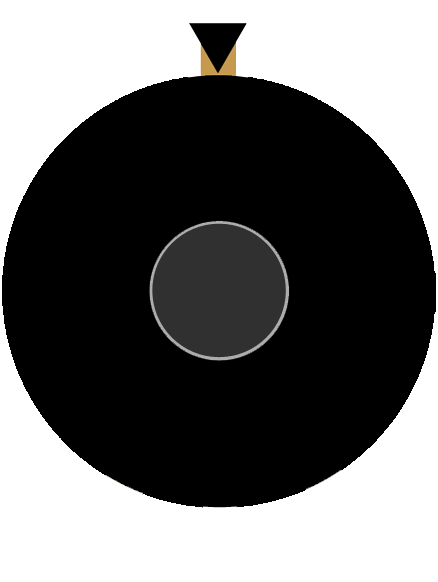
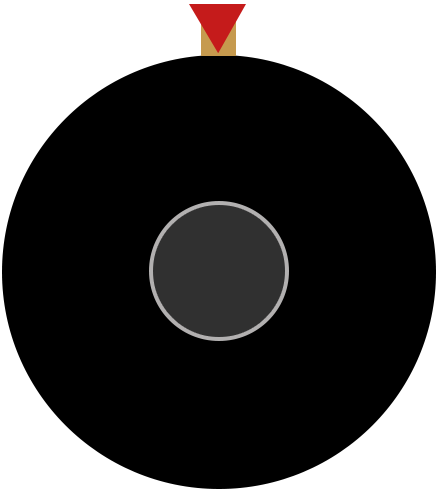
Made the code with a more modular approach. Redid the Background image so it's sharper.

diff --git a/index.html b/index.html
@@ -37,8 +37,8 @@
         <div id="myDIV" style="display:none; width:438;">
             <table cellpadding="0" cellspacing="0" border="0">
                 <tr>
-                    <td width="438" height="500" class="the_wheel"  valign="center">
-                        <canvas id="canvas" width="434" height="434">
+                    <td width="438" height="500" class="the_wheel"  align-items="center">
+                        <canvas id="canvas" style="margin-top:50px; margin-left:2px" width="434" height="434">
                             <p style="color: white" >Sorry, your browser doesn't support canvas. Please try another.</p>
                         </canvas>
                     </td>
@@ -56,7 +56,8 @@
 
             // Vars used by the code in this page to do power controls.
             let wheelSpinning = false;
-            var theWheel
+            var wheelSettings;
+            let theWheel;
 
             ComfyJS.onChat = ( user, message, flags, self, extra ) => {
                 if( flags.customReward &&
@@ -68,121 +69,84 @@
                 if( flags.customReward &&
                         extra.customRewardId === channelPointsIDS.TF2 ) {
 
-                    theWheel = new Winwheel({
-                        'outerRadius'     : wheelSettingsTF2.outerRadius,
-                        'innerRadius'     : wheelSettingsTF2.innerRadius,
-                        'textFontSize'    : wheelSettingsTF2.textFontSize,
-                        'textOrientation' : wheelSettingsTF2.textOrientation,
-                        'textAlignment'   : wheelSettingsTF2.textAlignment,
-                        'numSegments'     : wheelSettingsTF2.numSegments,
-                        'segments'        : wheelSettingsTF2.segments,
-                        'animation'    : 
-                        {
-                            'type'     : wheelSettingsTF2.animation.type,
-                            'duration' : wheelSettingsTF2.animation.duration,
-                            'spins'    : wheelSettingsTF2.animation.spins,
-                            'callbackFinished' : alertPrize,
-                            'callbackSound'    : playSound,
-                            'soundTrigger'     : wheelSettingsTF2.animation.soundTrigger
-                        },
-                        'pins' :
-                        {
-                            'number'     : wheelSettingsTF2.pins.number,
-                            'fillStyle'  : wheelSettingsTF2.pins.fillStyle,
-                            'outerRadius': wheelSettingsTF2.pins.outerRadius
-                        }
-                    });
+                    wheelSettings = wheelSettingsTF2
+                    CheckandRun(user, message);
 
-                    redeemerUsername = user
-
-                    if (wheelSpinning){
-                        ComfyJS.Say(user + ", the wheel is already spinning, wait your turn! My points now...")
-                    }
-
-                    var x = document.getElementById("myDIV");
-                    if (x.style.display === "none") {
-                        x.style.display = "block";
-                    }
-                    setTimeout(function(){
-                    var x = document.getElementById("myDIV");
-                    if (message.toLowerCase() === "low") {
-                        startSpin(1);
-                        
-                    }else if (message.toLowerCase() === "medium") {
-                        startSpin(2);
-                    }else if (message.toLowerCase() === "high") {
-                        startSpin(3);
-                    }else {
-                        var randomPower = Math.floor(Math.random() * 3) + 1;
-                        startSpin(Number(randomPower));
-                    }
-                }, 2000);
-                    
                 }
 
                 //Stream wide spin
                 if( flags.customReward &&
                         extra.customRewardId === channelPointsIDS.StreamWide ) {
 
-                    theWheel = new Winwheel({
-                        'outerRadius'     : wheelSettingsStream.outerRadius,
-                        'innerRadius'     : wheelSettingsStream.innerRadius,
-                        'textFontSize'    : wheelSettingsStream.textFontSize,
-                        'textOrientation' : wheelSettingsStream.textOrientation,
-                        'textAlignment'   : wheelSettingsStream.textAlignment,
-                        'numSegments'     : wheelSettingsStream.numSegments,
-                        'segments'        : wheelSettingsStream.segments,
-                        'animation'    : 
-                        {
-                            'type'     : wheelSettingsStream.animation.type,
-                            'duration' : wheelSettingsStream.animation.duration,
-                            'spins'    : wheelSettingsStream.animation.spins,
-                            'callbackFinished' : alertPrize,
-                            'callbackSound'    : playSound,
-                            'soundTrigger'     : wheelSettingsStream.animation.soundTrigger
-                        },
-                        'pins' :
-                        {
-                            'number'     : wheelSettingsStream.pins.number,
-                            'fillStyle'  : wheelSettingsStream.pins.fillStyle,
-                            'outerRadius': wheelSettingsStream.pins.outerRadius
-                        }
-                    });
 
-                    redeemerUsername = user
-
-                    if (wheelSpinning){
-                        ComfyJS.Say(user + ", the wheel is already spinning, wait your turn! My points now...")
-                    }
-
-                    var x = document.getElementById("myDIV");
-                    if (x.style.display === "none") {
-                        x.style.display = "block";
-                    }
-                    setTimeout(function(){
-                    var x = document.getElementById("myDIV");
-                    if (message.toLowerCase() === "low") {
-                        startSpin(1);
+                        wheelSettings = wheelSettingsStream
+                        CheckandRun(user, message);
                         
-                    }else if (message.toLowerCase() === "medium") {
-                        startSpin(2);
-                    }else if (message.toLowerCase() === "high") {
-                        startSpin(3);
-                    }else {
-                        var randomPower = Math.floor(Math.random() * 3) + 1;
-                        startSpin(Number(randomPower));
-                    }
-                }, 2000);
-                    
-                }
-                
 
-            };
+                };
+            }
 
             ComfyJS.Init( TWITCHUSER, OAUTH );
 
+
+            //Set the wheel settings.
+
             // Loads the tick audio sound in to an audio object.
             let audio = new Audio('tick.mp3');
+
+            function CheckandRun(user, message){
+
+                theWheel = new Winwheel({
+                        'outerRadius'     : wheelSettings.outerRadius,
+                        'innerRadius'     : wheelSettings.innerRadius,
+                        'textFontSize'    : wheelSettings.textFontSize,
+                        'textOrientation' : wheelSettings.textOrientation,
+                        'textAlignment'   : wheelSettings.textAlignment,
+                        'numSegments'     : wheelSettings.numSegments,
+                        'segments'        : wheelSettings.segments,
+                        'animation'    : 
+                        {
+                            'type'     : wheelSettings.animation.type,
+                            'duration' : wheelSettings.animation.duration,
+                            'spins'    : wheelSettings.animation.spins,
+                            'callbackFinished' : alertPrize,
+                            'callbackSound'    : playSound,
+                            'soundTrigger'     : wheelSettings.animation.soundTrigger
+                        },
+                        'pins' :
+                        {
+                            'number'     : wheelSettings.pins.number,
+                            'fillStyle'  : wheelSettings.pins.fillStyle,
+                            'outerRadius': wheelSettings.pins.outerRadius
+                        }
+                    });
+
+                redeemerUsername = user
+
+                if (wheelSpinning){
+                    ComfyJS.Say(user + ", the wheel is already spinning, wait your turn! My points now...")
+                }
+
+                var x = document.getElementById("myDIV");
+                if (x.style.display === "none") {
+                    x.style.display = "block";
+                }
+                setTimeout(function(){
+                var x = document.getElementById("myDIV");
+                if (message.toLowerCase() === "low") {
+                    startSpin(1);
+                    
+                }else if (message.toLowerCase() === "medium") {
+                    startSpin(2);
+                }else if (message.toLowerCase() === "high") {
+                    startSpin(3);
+                }else {
+                    var randomPower = Math.floor(Math.random() * 3) + 1;
+                    startSpin(Number(randomPower));
+                }
+                }, 2000);
+
+            }
 
             // This function is called when the sound is to be played.
             function playSound()
